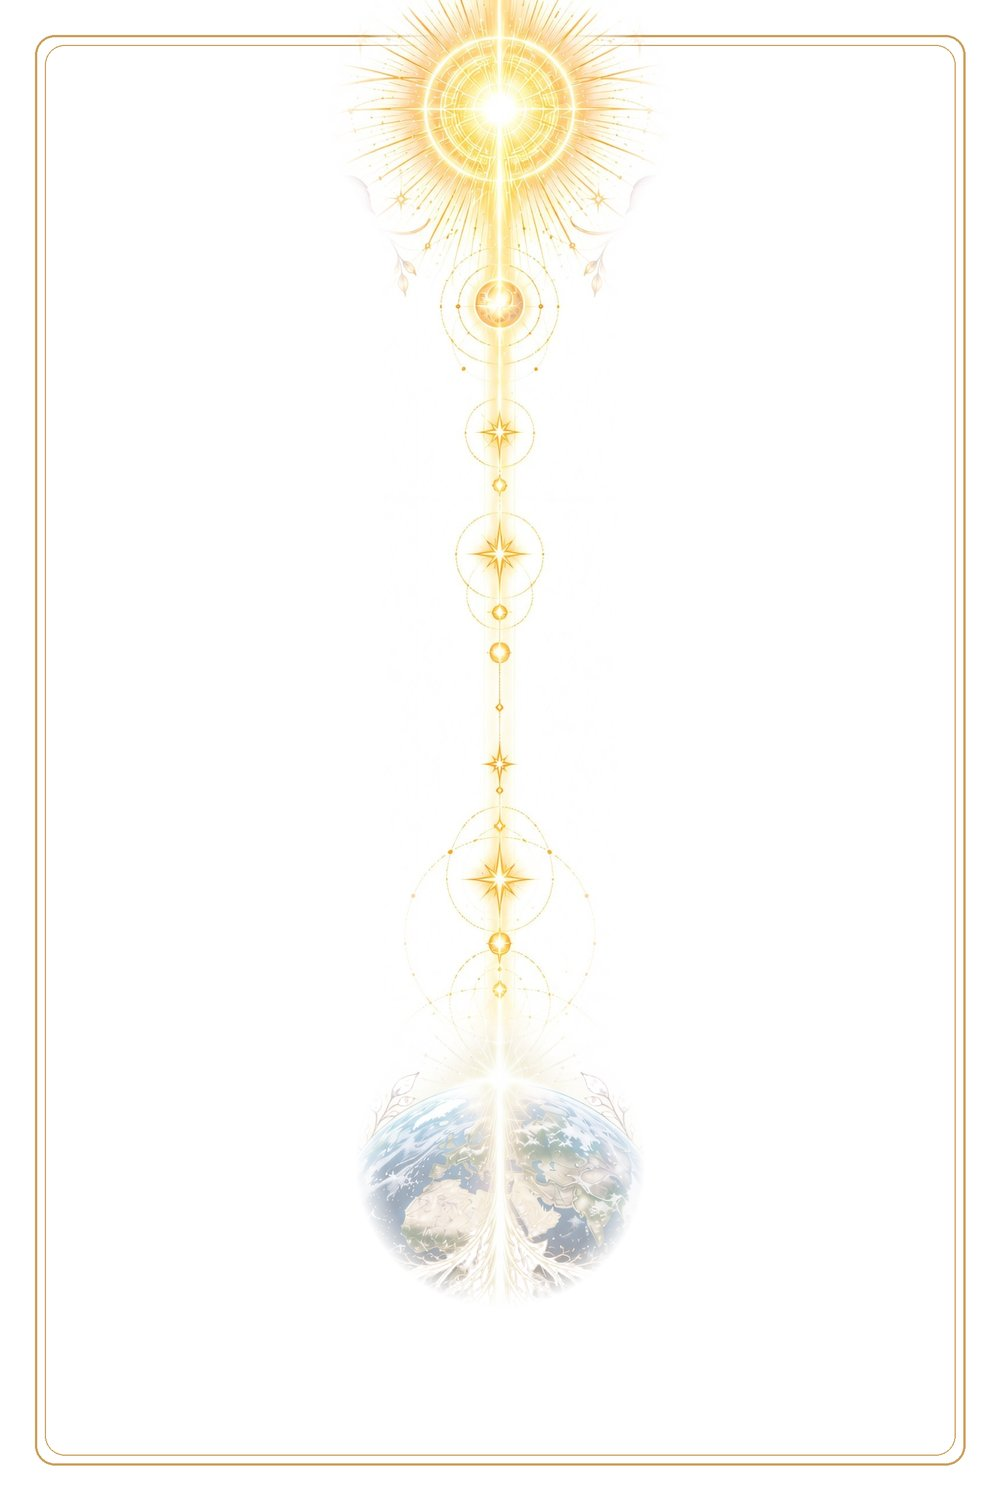
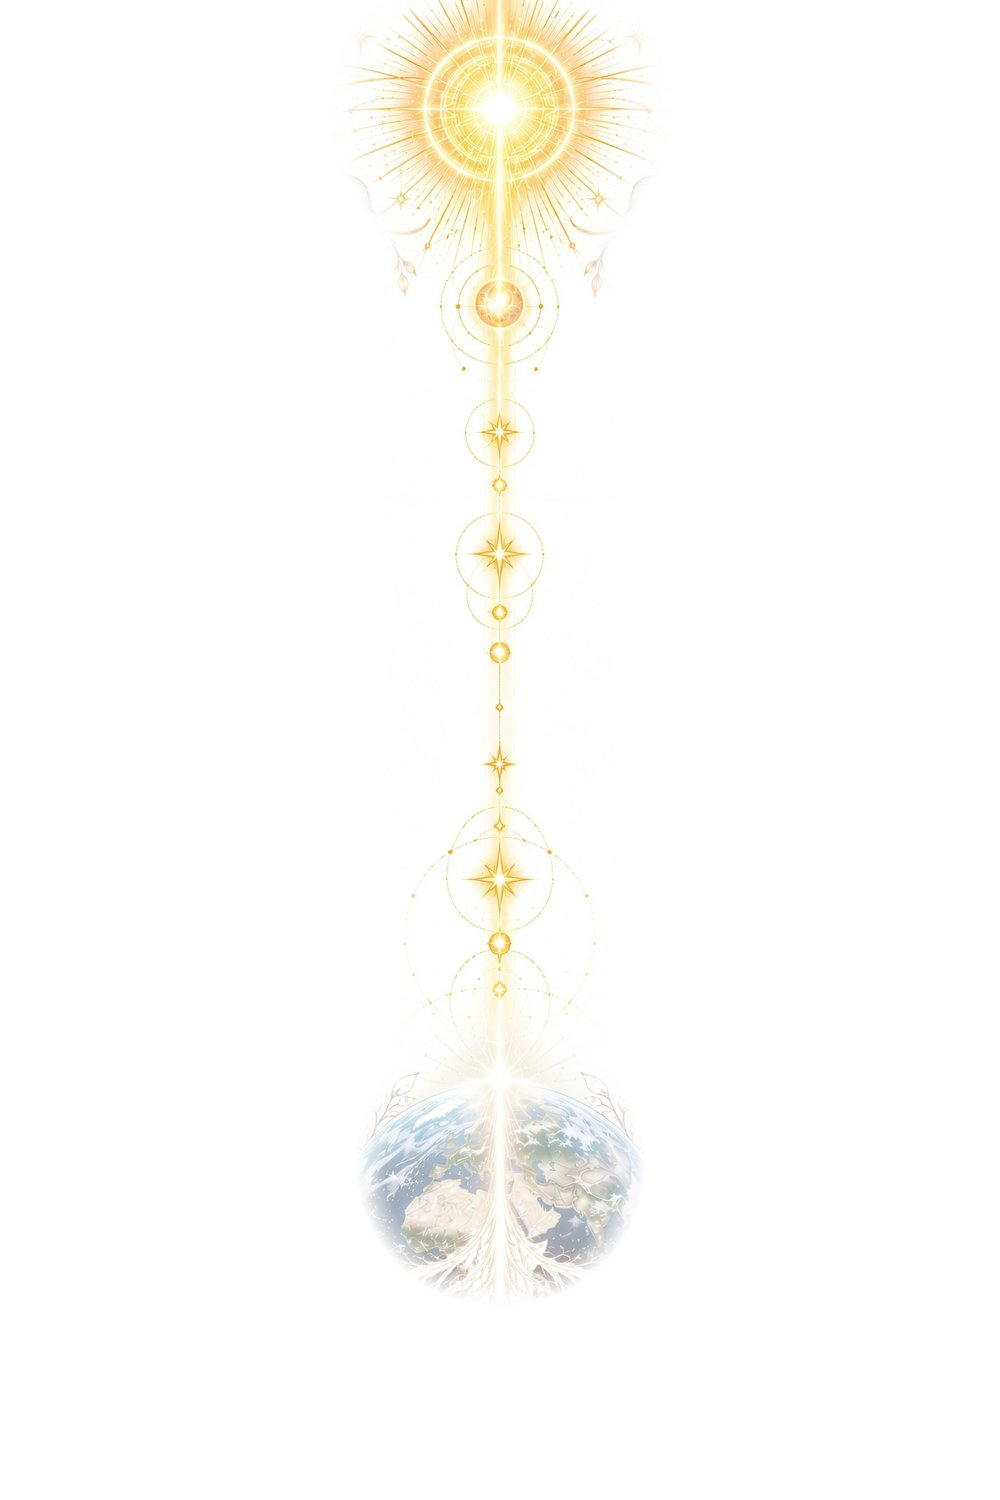
Lignée en lumière sur fond blanc : forme arrondie d'énergie dorée au lieu du cadre, décor en résolution A3 300 dpi (#445)
Claude-Session: https://claude.ai/code/session_01Jp8dGRbiouwYvgxCdYEgCU

diff --git a/assets/arbre-lumiere.js b/assets/arbre-lumiere.js
@@ -128,13 +128,24 @@
     }
     parts.slice().reverse().forEach(function (it) { personnes += it.html; }); personnes += coeur;
 
-    var decor = o.decor || (d.style === 'blanc_lumiere' ? 'assets/arbre/lumiere-blanc.jpg' : 'assets/arbre/lumiere-fond.jpg');   /* « Sur fond blanc » : le même décor, épuré (sans le feuillage), liseré doré */
+    var decor = o.decor || (d.style === 'blanc_lumiere' ? 'assets/arbre/lumiere-blanc.jpg' : 'assets/arbre/lumiere-fond.jpg');   /* « Sur fond blanc » : le même décor, épuré (sans le feuillage), en 3307 x 4961 px (A3 à 300 dpi) */
     /* le titre : seulement s'il a été écrit (rien d'imposé) */
     var titre = (d.titre ? '<text x="' + CX + '" y="' + (yT - (nR > 3 ? 220 : 330)) + '" text-anchor="middle" class="lu-titre">' + esc(d.titre) + '</text>' : '') +
       (d.sousTitre ? '<text x="' + CX + '" y="' + (yT - (nR > 3 ? 155 : 260)) + '" text-anchor="middle" class="lu-sous">' + esc(d.sousTitre) + '</text>' : '');
     var phrase = '<text x="' + CX + '" y="' + (H - 64) + '" text-anchor="middle" class="lu-phrase">' + (COUPLE ? 'Que la lumière de nos lignées nous protège et nous accompagne.' : 'Que la lumière de ma lignée me protège et m’accompagne.') + '</text>';
     var pied = '<text x="' + (W - DX - 30) + '" y="' + (H - 30) + '" text-anchor="end" class="lu-pied">' + esc(o.pied || 'GENESOLIA · genesolia.fr') + '</text>';
     var filigrane = o.apercu ? '<g opacity=".14" transform="rotate(-30 ' + CX + ' ' + H / 2 + ')"><text x="' + CX + '" y="' + (H / 2 - 100) + '" text-anchor="middle" class="lu-fil">APERÇU</text><text x="' + CX + '" y="' + (H / 2 + 300) + '" text-anchor="middle" class="lu-fil">GENESOLIA</text></g>' : '';
+    /* « Sur fond blanc » : pas de cadre, une forme arrondie d'énergie, discrète, qui enveloppe la lignée (dessinée en vectoriel : nette à 300 dpi) */
+    var energie = '';
+    if (d.style === 'blanc_lumiere') {
+      var ex = 70, ey = 70, ew = W - 140, rb = 360, yb = H - 150, rt = ew / 2;
+      var forme = 'M' + ex + ' ' + (ey + rt) + 'A' + rt + ' ' + rt + ' 0 0 1 ' + (ex + ew) + ' ' + (ey + rt) + 'V' + (yb - rb) + 'Q' + (ex + ew) + ' ' + yb + ' ' + (ex + ew - rb) + ' ' + yb + 'H' + (ex + rb) + 'Q' + ex + ' ' + yb + ' ' + ex + ' ' + (yb - rb) + 'Z';
+      energie = '<g fill="none" stroke-linecap="round">' +
+        '<path d="' + forme + '" stroke="#F2D9A4" stroke-width="22" opacity=".45" filter="url(#lu-aura)"/>' +
+        '<path d="' + forme + '" stroke="url(#lu-or)" stroke-width="3" opacity=".75"/>' +
+        '<path d="' + forme + '" stroke="#E7C27C" stroke-width="7" stroke-dasharray="0 46" opacity=".55"/>' +
+        '</g>';
+    }
     var B = o.fondPerdu ? Math.round(4 * W / 210) : 0;
     return '<svg xmlns="http://www.w3.org/2000/svg" viewBox="' + (-B) + ' ' + (-B) + ' ' + (W + 2 * B) + ' ' + (H + 2 * B) + '" width="' + (W + 2 * B) + '" height="' + (H + 2 * B) + '" data-generations="' + n + '">' +
       '<defs>' +
@@ -150,12 +161,13 @@
       '<radialGradient id="lu-t3" cx=".5" cy=".45" r=".6"><stop offset=".35" stop-color="#FFFFFF" stop-opacity="0"/><stop offset="1" stop-color="#C9DCF0"/></radialGradient>' +
       '<radialGradient id="lu-t4" cx=".5" cy=".45" r=".6"><stop offset=".35" stop-color="#FFFFFF" stop-opacity="0"/><stop offset="1" stop-color="#F3D7A6"/></radialGradient>' +
       '<filter id="lu-doux" x="-50%" y="-50%" width="200%" height="200%"><feGaussianBlur stdDeviation="9"/></filter>' +
+      '<filter id="lu-aura" x="-10%" y="-10%" width="120%" height="120%"><feGaussianBlur stdDeviation="14"/></filter>' +
       '<style>.lu-titre{font-family:' + GN + ';font-size:118px;fill:#6B2F5B;paint-order:stroke;stroke:#FFFFFF;stroke-width:14px}.lu-sous{font-family:' + NS + ';font-size:34px;letter-spacing:9px;fill:#9A6E38;text-transform:uppercase;paint-order:stroke;stroke:#FFFFFF;stroke-width:10px}' +
       '.lu-nom{font-family:' + GN + ';fill:#4A0F36}.lu-nf{font-family:' + NS + ';font-weight:700;letter-spacing:1.5px;fill:#5A2147}.lu-date{font-family:' + NS + ';font-weight:700;fill:#9A6E38}' +
       '.lu-phrase{font-family:' + GN + ';font-style:italic;font-size:46px;fill:#6B2F5B;paint-order:stroke;stroke:#FFFFFF;stroke-width:12px}.lu-pied{font-family:' + NS + ';font-size:24px;letter-spacing:6px;fill:#9A6E38;paint-order:stroke;stroke:#FFFFFF;stroke-width:8px}.lu-fil{font-family:' + GN + ';font-size:300px;fill:#6B2F5B}</style></defs>' +
       '<rect x="-200" y="-200" width="' + (W + 400) + '" height="' + (H + 400) + '" fill="#FFFFFF"/>' +
       '<image href="' + esc(decor) + '" x="' + f1(DX) + '" y="0" width="' + DW + '" height="' + H + '" preserveAspectRatio="xMidYMid slice"/>' +
-      titre + branches + feuilles + personnes + phrase + pied + filigrane + '</svg>';
+      energie + titre + branches + feuilles + personnes + phrase + pied + filigrane + '</svg>';
   }
   window.ArbreLumiere = { svg: svg };
 })();

diff --git a/assets/arbre-encadrer-page.js b/assets/arbre-encadrer-page.js
@@ -114,7 +114,7 @@
     famille_medaillons: 'Votre couple et vos deux lignées dans des médaillons dorés, vos enfants au pied.',
     famille_eventail: 'L’éventail du couple : ta lignée à gauche, celle de ton conjoint à droite, vos enfants au centre.',
     famille_lumiere: 'Votre couple au-dessus de la Terre, un cœur de lumière entre vous, vos enfants dans la lumière de la Terre, et vos deux lignées qui s’élèvent vers le soleil, chacun dans sa sphère de lumière. Choisis le nombre de générations : juste vos parents, ou jusqu’aux plus anciens.',
-    blanc_lumiere: 'La même lignée en lumière, épurée : sur fond blanc, avec un fin liseré doré, le soleil, la colonne de lumière et une Terre tout en douceur.',
+    blanc_lumiere: 'La même lignée en lumière, épurée : sur fond blanc, enveloppée d’une forme arrondie de lumière dorée, avec le soleil, la colonne de lumière et une Terre tout en douceur.',
     lumiere: 'Une colonne de lumière entre la Terre et le soleil : toi au-dessus de la Terre, chaque personne de ta lignée dans sa sphère de lumière, à sa place (les défunts dans une sphère nacrée, avec un halo de protection). Une image qui protège et met ta lignée en lumière, à télécharger.'
   };
   /* la sorte d'arbre : une phrase sous chaque choix */

diff --git a/genosociogramme.html b/genosociogramme.html
@@ -1023,9 +1023,9 @@
   <script src="assets/arbre-descendants.js?v=7"></script>
   <script src="assets/arbre-eventail.js?v=3"></script>
   <script src="assets/arbre-grand.js?v=8"></script>
-  <script src="assets/arbre-lumiere.js?v=6"></script>
+  <script src="assets/arbre-lumiere.js?v=7"></script>
   <script src="assets/arbre-encadrer.js?v=27"></script>
-  <script src="assets/arbre-encadrer-page.js?v=46"></script>
+  <script src="assets/arbre-encadrer-page.js?v=47"></script>
 
   <script>
   (function () {
